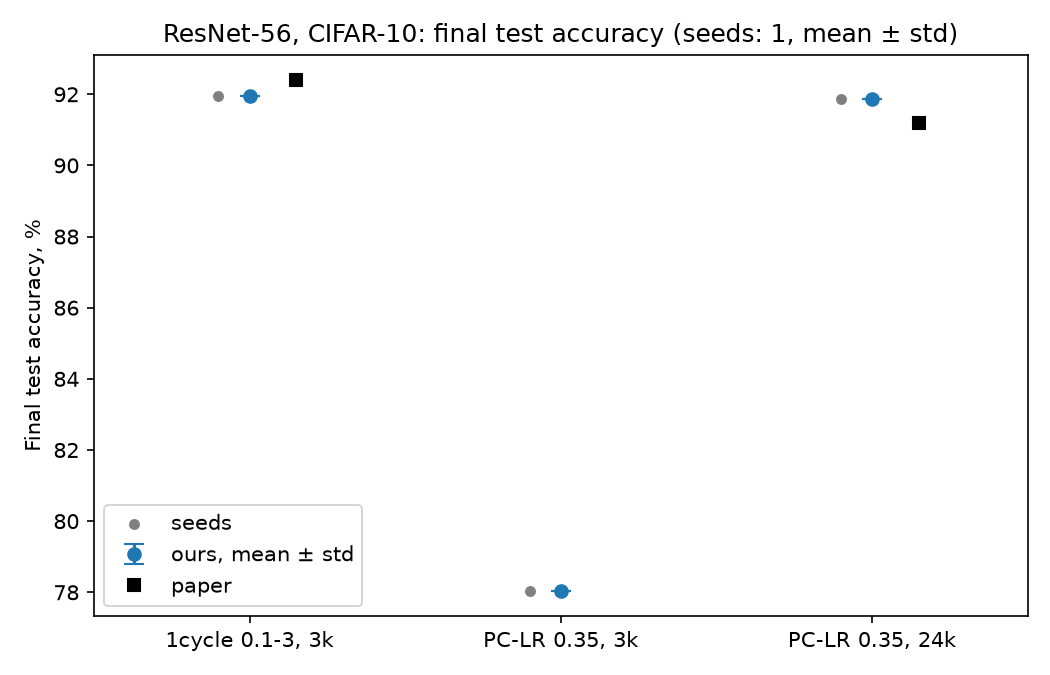
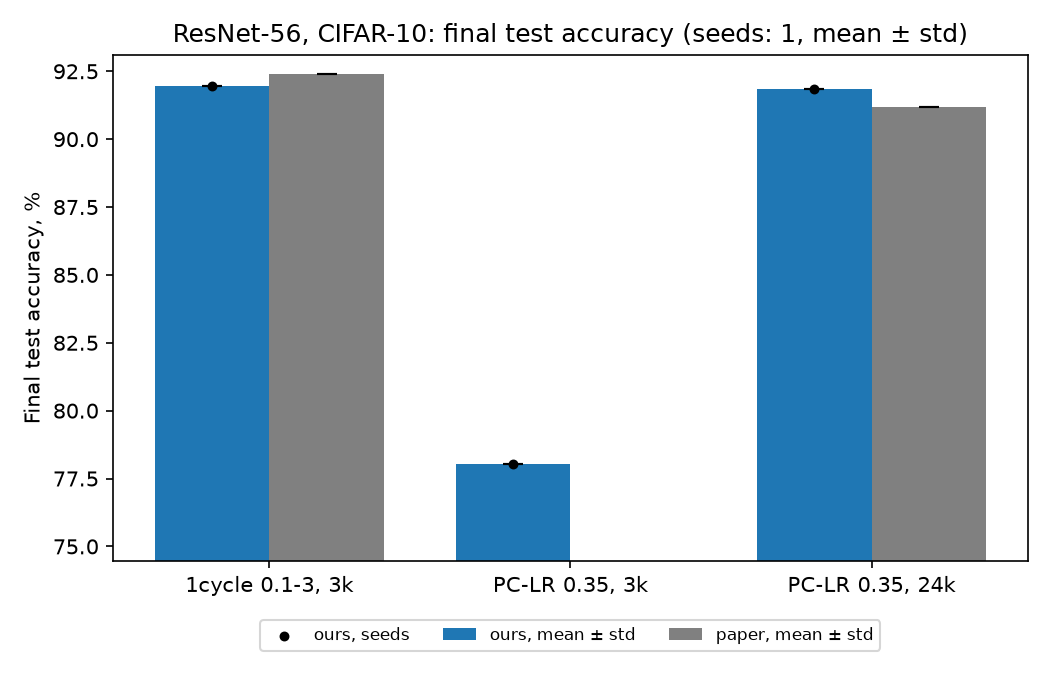
feat: report

diff --git a/analyze.py b/analyze.py
@@ -219,23 +219,29 @@ def final_table(groups):
     return pd.DataFrame(rows)
 
 
-def final_accuracy_figure(groups, paper, title, directory, name):
+def final_accuracy_bars(groups, paper, title, directory, name):
+    labels = list(groups)
+    x = np.arange(len(labels))
+    width = 0.38
+    ours = [describe(100 * np.array([r["final"]["test_acc"] for r in groups[label]])) for label in labels]
     fig, ax = plt.subplots(figsize=(7, 4.5))
-    for i, (label, group) in enumerate(groups.items()):
-        acc = 100 * np.array([r["final"]["test_acc"] for r in group])
-        d = describe(acc)
-        ax.scatter(np.full(len(acc), i - 0.1), acc, color="gray", s=18, label="seeds" if i == 0 else None)
-        ax.errorbar(i, d["mean"], yerr=0 if np.isnan(d["std"]) else d["std"], fmt="o", capsize=5,
-                    color="C0", label="ours, mean ± std" if i == 0 else None)
-        if label in paper:
-            mean, std = paper[label]
-            ax.errorbar(i + 0.15, mean, yerr=std, fmt="s", color="black", capsize=5,
-                        label="paper" if not any(l in paper for l in list(groups)[:i]) else None)
-    ax.set_xticks(range(len(groups)), list(groups))
-    ax.set_xlim(-0.5, len(groups) - 0.5)
+    ax.bar(x - width / 2, [d["mean"] for d in ours], width, yerr=[0 if np.isnan(d["std"]) else d["std"] for d in ours],
+           capsize=5, label="ours, mean ± std")
+    for i, label in enumerate(labels):
+        acc = 100 * np.array([r["final"]["test_acc"] for r in groups[label]])
+        ax.scatter(np.full(len(acc), x[i] - width / 2), acc, color="black", s=14, zorder=3,
+                   label="ours, seeds" if i == 0 else None)
+    paper_x = [x[i] + width / 2 for i, label in enumerate(labels) if label in paper]
+    paper_mean = [paper[label][0] for label in labels if label in paper]
+    paper_std = [paper[label][1] or 0 for label in labels if label in paper]
+    ax.bar(paper_x, paper_mean, width, yerr=paper_std, capsize=5, color="gray", label="paper, mean ± std")
+    values = [d["mean"] for d in ours] + paper_mean
+    span = max(values) - min(values)
+    ax.set_ylim(min(values) - max(0.3, 0.25 * span), max(values) + max(0.15, 0.05 * span))
+    ax.set_xticks(x, labels)
     ax.set_ylabel("Final test accuracy, %")
     ax.set_title(title)
-    ax.legend()
+    ax.legend(loc="upper center", bbox_to_anchor=(0.5, -0.1), ncol=3, fontsize=8)
     save(fig, directory, name)
 
 
@@ -471,7 +477,22 @@ def exp3(runs):
     ax.legend()
     save(fig, EXP3, "c11_test_error.png")
 
-    final_accuracy_figure(groups, PAPER["c11"], f"LeNet, MNIST: final test accuracy ({note})", EXP3, "c11_final_accuracy.png")
+    for ylim, name in ((None, "c11_accuracy.png"), ((98.0, 100.0), "c11_accuracy_zoom.png")):
+        fig, ax = plt.subplots(figsize=(8, 4.5))
+        for i, (label, group) in enumerate(groups.items()):
+            it, train, train_std = stack_history(group, "train_acc")
+            _, test, test_std = stack_history(group, "test_acc")
+            band(ax, it / its_per_epoch, 100 * train, 100 * train_std, f"{label}, train (epoch window)", color=f"C{i}")
+            band(ax, it / its_per_epoch, 100 * test, 100 * test_std, f"{label}, test", color=f"C{i}", ls="--")
+        if ylim:
+            ax.set_ylim(*ylim)
+        ax.set_xlabel("Epoch")
+        ax.set_ylabel("Accuracy, %")
+        ax.set_title(f"LeNet, MNIST: train and test accuracy ({note})" + (", zoomed" if ylim else ""))
+        ax.legend(fontsize=8)
+        save(fig, EXP3, name)
+
+    final_accuracy_bars(groups, PAPER["c11"], f"LeNet, MNIST: final test accuracy ({note})", EXP3, "c11_final_accuracy.png")
     save_table(final_table(groups), EXP3, "c11_final_summary.csv")
     if len(groups) == 2:
         final = {label: [r["final"]["test_acc"] for r in group] for label, group in groups.items()}
@@ -538,8 +559,8 @@ def exp4(runs):
     ax.legend()
     save(fig, EXP4, "generalization_gap.png")
 
-    final_accuracy_figure(groups, PAPER["c2"], f"ResNet-56, CIFAR-10: final test accuracy ({note})", EXP4,
-                          "final_accuracy.png")
+    final_accuracy_bars(groups, PAPER["c2"], f"ResNet-56, CIFAR-10: final test accuracy ({note})", EXP4,
+                        "final_accuracy.png")
     save_table(final_table(groups), EXP4, "final_summary.csv")
     final = {label: [r["final"]["test_acc"] for r in group] for label, group in groups.items()}
     pairs = [("1cycle 0.1-3, 3k", "PC-LR 0.35, 24k"), ("1cycle 0.1-3, 3k", "PC-LR 0.35, 3k")]

diff --git a/README.md b/README.md
@@ -9,4 +9,4 @@ M4152, 368758
 
 - [презентация с объяснением статьи](ENN-super-convergence.pdf)
 - [отчет о воспроизведении](report.md)
-- [код воспроизвведения]()
+- [код воспроизвведения](samsonovenn2.py)
